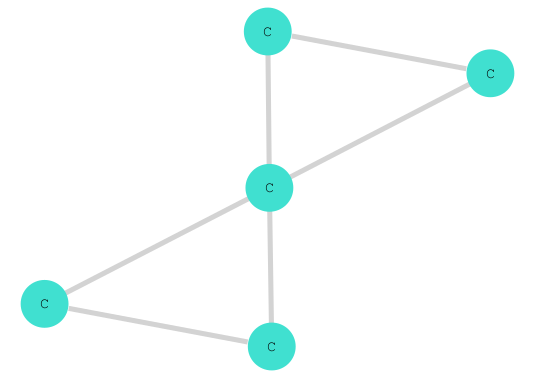
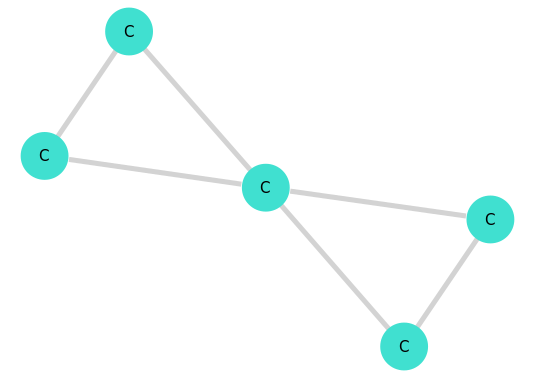
updated readme for latest plotting command.

diff --git a/README.md b/README.md
@@ -18,7 +18,7 @@ using OpenSMILES, GraphPlot
 
 # Tryptophan
 Graph, Data = OpenSMILES.ParseSMILES("C1=CC=C2C(=C1)C(=CN2)CC(C(=O)O)N")
-GraphPlot.gplot( OpenSMILES.WeightedToSimple( Graph ), nodelabel = OpenSMILES.abbreviation.( Data ) )
+GraphPlot.gplot( Graph, nodelabel = OpenSMILES.abbreviation.( Data ) )
 OpenSMILES.EmpiricalFormula( Data ) # C11H12N2O2
 ```
 ![Tryptophan](https://raw.githubusercontent.com/caseykneale/OpenSMILES.jl/master/output/Tryptophan.png)
@@ -26,7 +26,7 @@ OpenSMILES.EmpiricalFormula( Data ) # C11H12N2O2
 ```Julia
 # Bowtie ( not a real molecule :P )
 Graph, Data = OpenSMILES.ParseSMILES("C1CC12CC2")
-GraphPlot.gplot( OpenSMILES.WeightedToSimple( Graph ), nodelabel = OpenSMILES.abbreviation.( Data ) )
+GraphPlot.gplot( Graph, nodelabel = OpenSMILES.abbreviation.( Data ) )
 OpenSMILES.EmpiricalFormula( Data ) #C5H8
 ```
 ![Bowtie](https://raw.githubusercontent.com/caseykneale/OpenSMILES.jl/master/output/Bowtie.png)
